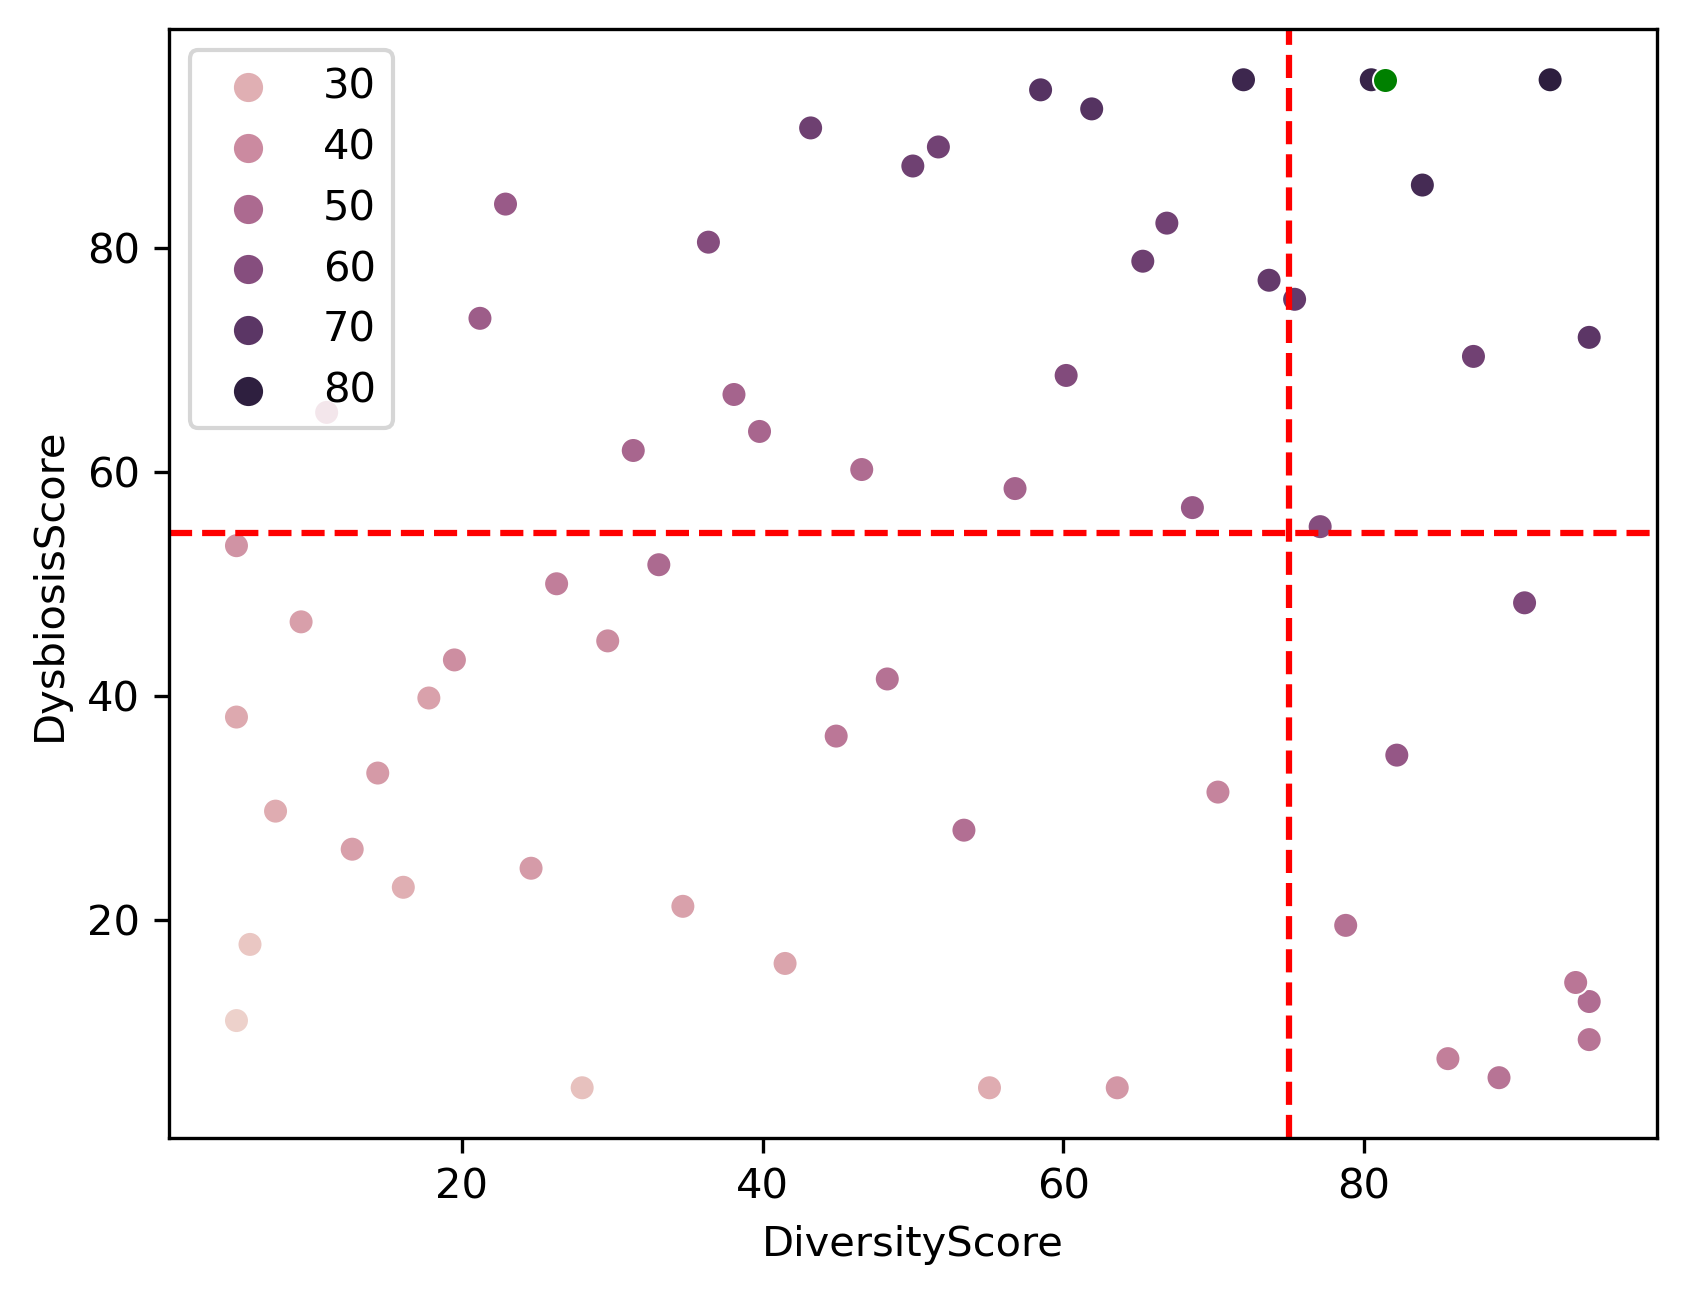
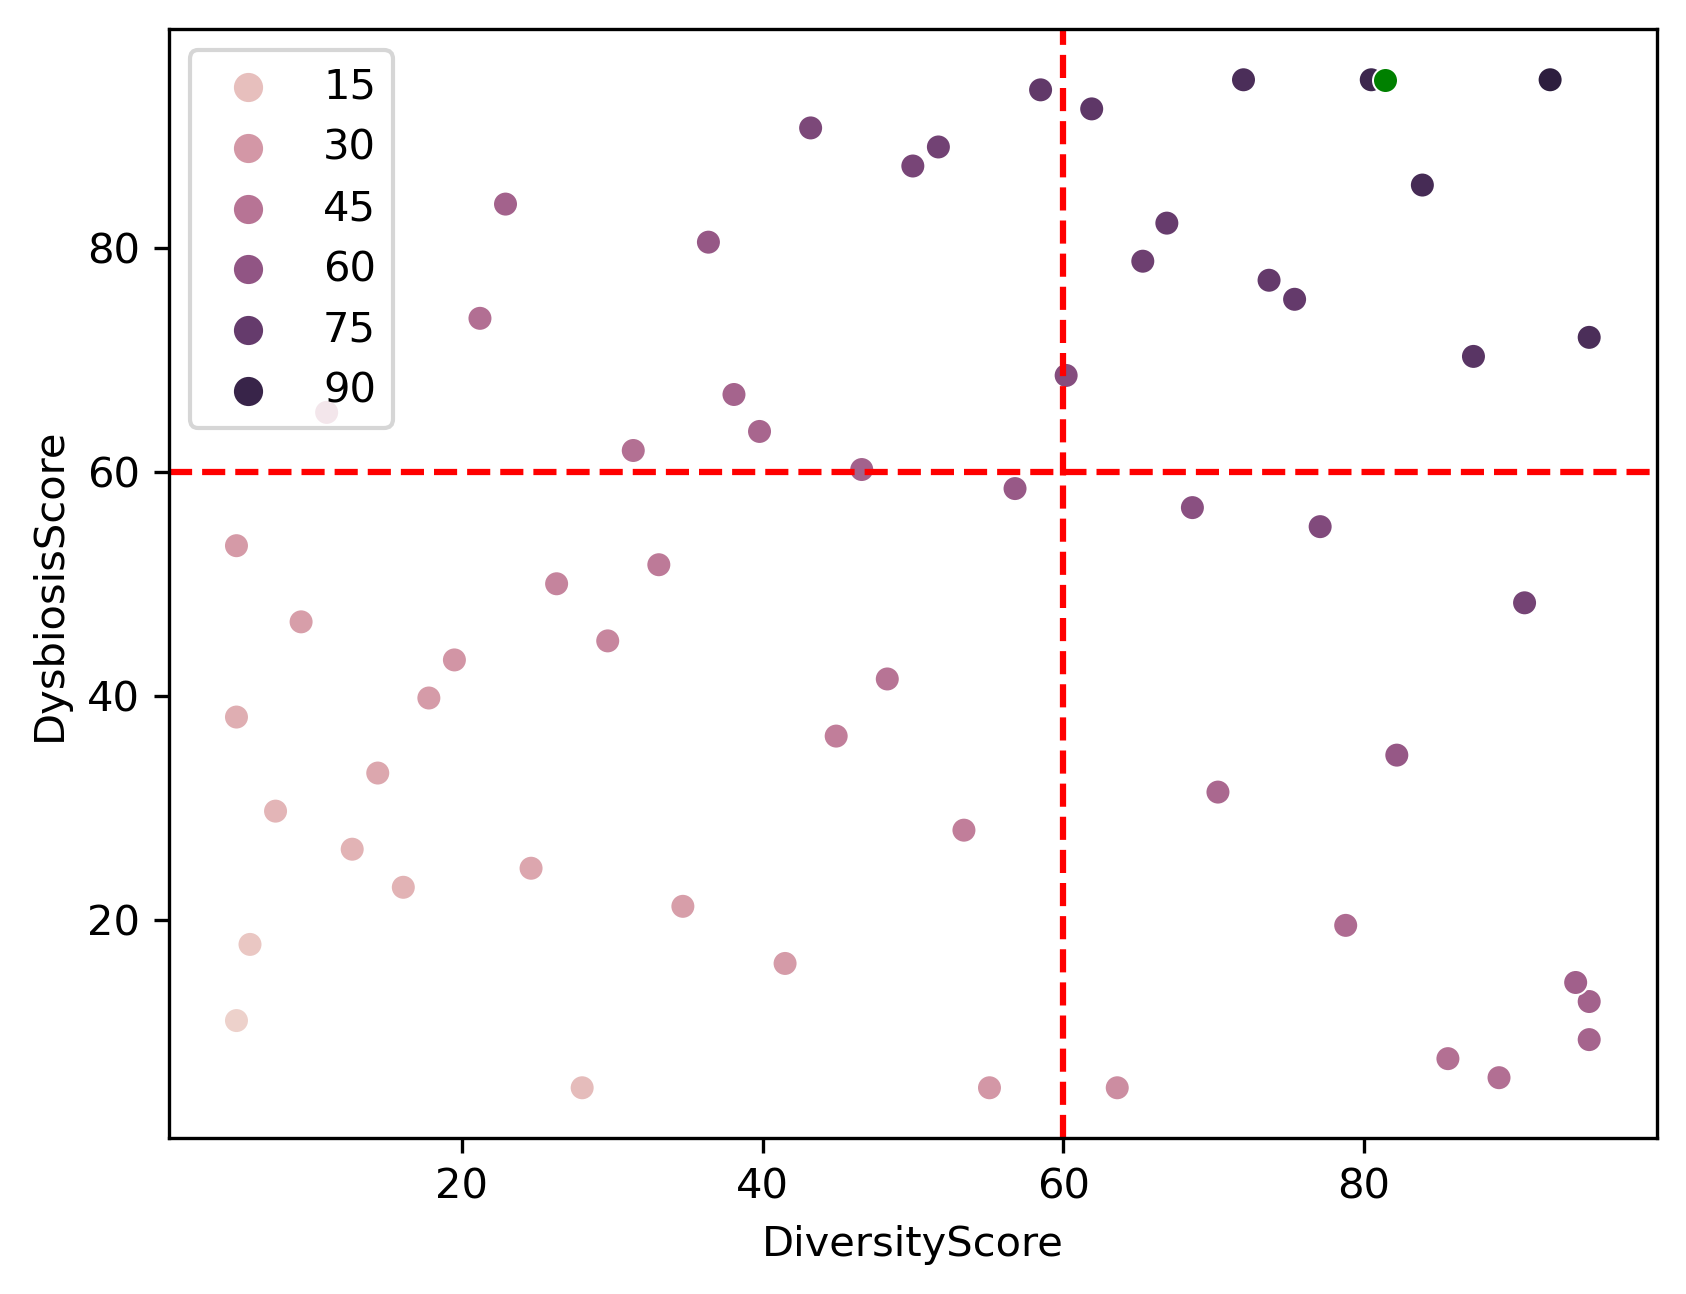
Update the code - Type EBID Evaluation

diff --git a/egpet_percentile_rank.py b/egpet_percentile_rank.py
@@ -305,7 +305,7 @@ class EgPetAnalysis:
         try:      
             self.df_mrs['Diversity'] = self.li_diversity
             
-            # Append the Dysbiosis, HealthyDistance, Diversity, TotalRiskScore to phenotype list
+            # Append the Dysbiosis, Diversity to phenotype list
             self.li_phenotype += ['Dysbiosis', 'Diversity']
 
             # Create an empty data frame with the same index and columns as the df_mrs data frame
@@ -379,8 +379,8 @@ class EgPetAnalysis:
             plt.ylabel('DysbiosisScore')
             plt.legend()
                                  
-            plt.axhline(y=60/1.1, xmin=0, xmax=1, color='red', linestyle='--')    
-            plt.axvline(x=60/0.8, ymin=0, ymax=1, color='red', linestyle='--')
+            plt.axhline(y=60, xmin=0, xmax=1, color='red', linestyle='--')    
+            plt.axvline(x=60, ymin=0, ymax=1, color='red', linestyle='--')
             
             '''
             E_data = self.df_percentile_rank_db[(self.df_percentile_rank_db['Diversity'] >= 60/0.8) & (self.df_percentile_rank_db['Dysbiosis'] >= 60/1.1)]
@@ -445,13 +445,13 @@ class EgPetAnalysis:
 
             # Type E, B, I, D
             conditions = [
-                (self.df_percentile_rank['Diversity'] >= 60/0.8) & (self.df_percentile_rank['Dysbiosis'] >= 60/1.1),
+                (self.df_percentile_rank['Diversity'] >= 60) & (self.df_percentile_rank['Dysbiosis'] >= 60),
                 
-                (self.df_percentile_rank['Diversity'] < 60/0.8) & (self.df_percentile_rank['Dysbiosis'] >= 60/1.1),
+                (self.df_percentile_rank['Diversity'] < 60) & (self.df_percentile_rank['Dysbiosis'] >= 60),
                 
-                (self.df_percentile_rank['Diversity'] >= 60/0.8) & (self.df_percentile_rank['Dysbiosis'] < 60/1.1),
+                (self.df_percentile_rank['Diversity'] >= 60) & (self.df_percentile_rank['Dysbiosis'] < 60),
                 
-                (self.df_percentile_rank['Diversity'] < 60/0.8) & (self.df_percentile_rank['Dysbiosis'] < 60/1.1)
+                (self.df_percentile_rank['Diversity'] < 60) & (self.df_percentile_rank['Dysbiosis'] < 60)
             ]
             values = ['E', 'B', 'I', 'D']
 
